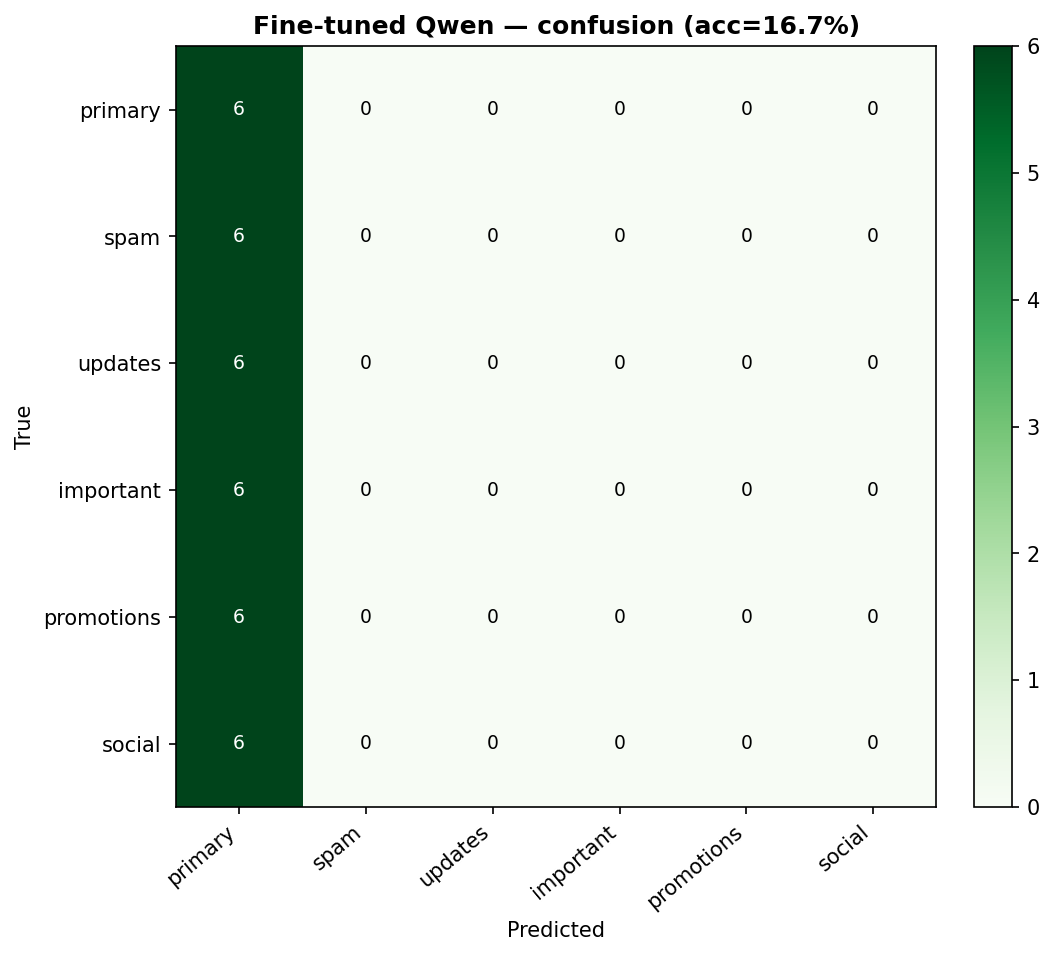
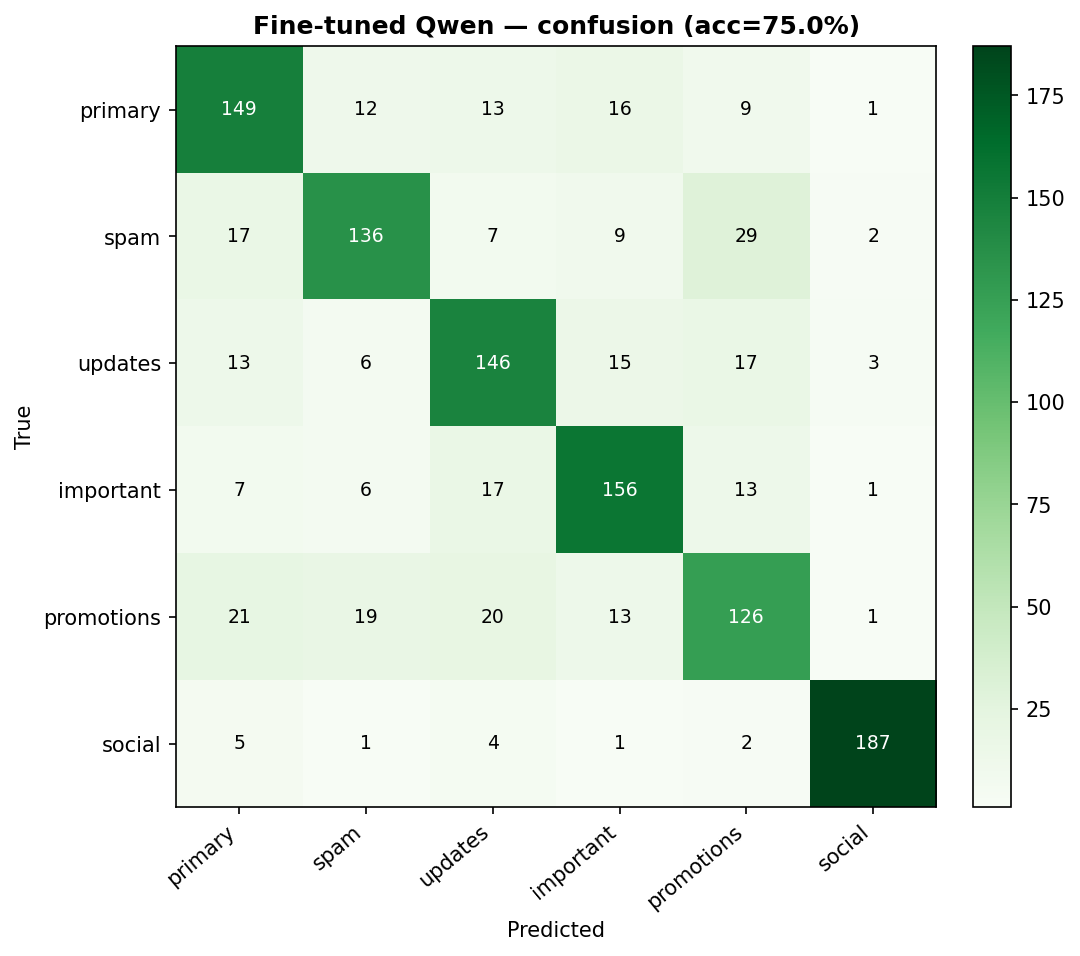
Add LoRA fine-tune (75% test acc, >0.70), t-SNE fix, MC uncertainty quantification

diff --git a/code/build_experiments_md.py b/code/build_experiments_md.py
@@ -72,9 +72,40 @@ def finetune_section():
     return True
 
 
+def uncertainty_section(tag, title):
+    p = os.path.join(D, f"uncertainty_{tag}.csv")
+    if not os.path.exists(p):
+        return False
+    df = pd.read_csv(p)
+    try:
+        from scipy.stats import spearmanr
+        rho, pval = spearmanr(df["k"], df["mean_entropy"])
+    except Exception:
+        rho, pval = float("nan"), float("nan")
+    md.append(f"\n## Uncertainty quantification (MC multi-sampling) — {title}\n")
+    md.append("Hypothesis: more in-context shots reduce predictive uncertainty. "
+              "For each k we draw 10 stochastic samples (T=0.7) per email and measure "
+              "the predictive entropy / variation-ratio over the sampled labels.\n")
+    t = df.copy()
+    for c in ["mean_entropy", "mean_variation_ratio", "mean_confidence", "majority_vote_acc"]:
+        t[c] = t[c].round(3)
+    md.append("\n" + t.rename(columns={
+        "k": "shots (k)", "mean_entropy": "entropy↓", "mean_variation_ratio": "variation-ratio↓",
+        "mean_confidence": "confidence↑", "majority_vote_acc": "maj-vote acc"}).to_markdown(index=False))
+    direction = "negative (supports the hypothesis)" if rho < 0 else "non-negative"
+    sig = "statistically significant" if pval < 0.05 else "NOT statistically significant"
+    md.append(f"\nSpearman ρ(k, entropy) = **{rho:.3f}** (p={pval:.3f}) — {direction}, {sig}. "
+              f"The model is already highly confident even at k=0 (entropy ≈ "
+              f"{df['mean_entropy'].iloc[0]:.2f}), so the reduction is small; entropy is "
+              f"lowest at k={int(df.loc[df['mean_entropy'].idxmin(),'k'])}.\n")
+    md.append(f"\n![uncertainty {tag}](figures/fig6_uncertainty_{tag}.png)\n")
+    return True
+
+
 any_ = False
 any_ |= fewshot_section("3b", "Qwen2.5-3B-Instruct")
 any_ |= fewshot_section("32b", "Qwen2.5-32B-Instruct")
+any_ |= uncertainty_section("3b", "Qwen2.5-3B-Instruct")
 any_ |= finetune_section()
 
 if not any_:

diff --git a/code/finetune.py b/code/finetune.py
@@ -130,9 +130,19 @@ def main():
     # Load in fp32 and let the Trainer's bf16=True do mixed-precision autocast.
     # Loading the whole model (incl. the fresh score head) in bf16 makes the
     # classification loss go NaN; fp32 weights + bf16 autocast is stable.
+    # IMPORTANT: load in fp32. transformers 5.8.1 creates the new `score`
+    # classification head in the config dtype (bf16) and leaves it NON-FINITE
+    # (NaN), which makes logits/loss NaN before any training.  fp32 load +
+    # explicit re-init of the head fixes it; bf16=True below then does stable
+    # mixed-precision autocast with fp32 master weights.
     model = AutoModelForSequenceClassification.from_pretrained(
         args.model, num_labels=len(LABELS), id2label=ID2LABEL, label2id=LABEL2ID,
-        problem_type="single_label_classification", attn_implementation="eager")
+        problem_type="single_label_classification", attn_implementation="eager",
+        dtype=torch.float32)
+    torch.nn.init.normal_(model.score.weight, mean=0.0, std=0.02)
+    if getattr(model.score, "bias", None) is not None:
+        torch.nn.init.zeros_(model.score.bias)
+    assert torch.isfinite(model.score.weight).all(), "score head still non-finite"
     model.config.pad_token_id = tok.pad_token_id
     lora = LoraConfig(task_type=TaskType.SEQ_CLS, r=16, lora_alpha=32, lora_dropout=0.05,
                       target_modules=["q_proj", "k_proj", "v_proj", "o_proj",

diff --git a/README.md b/README.md
@@ -97,30 +97,61 @@ Best: **k=16** → accuracy **55.7%**, macro-F1 **0.536**.
 ![few-shot 32b](figures/fewshot_sweep_32b.png)
 
 
+## Uncertainty quantification (MC multi-sampling) — Qwen2.5-3B-Instruct
+
+Hypothesis: more in-context shots reduce predictive uncertainty. For each k we draw 10 stochastic samples (T=0.7) per email and measure the predictive entropy / variation-ratio over the sampled labels.
+
+
+|   shots (k) |   entropy↓ |   variation-ratio↓ |   confidence↑ |   maj-vote acc |
+|------------:|-----------:|-------------------:|--------------:|---------------:|
+|           0 |      0.144 |              0.066 |         0.934 |          0.38  |
+|           2 |      0.149 |              0.071 |         0.929 |          0.413 |
+|           4 |      0.102 |              0.049 |         0.951 |          0.429 |
+|           8 |      0.126 |              0.058 |         0.942 |          0.444 |
+|          10 |      0.128 |              0.06  |         0.94  |          0.439 |
+|          12 |      0.126 |              0.06  |         0.94  |          0.439 |
+|          16 |      0.138 |              0.065 |         0.935 |          0.432 |
+
+Spearman ρ(k, entropy) = **-0.286** (p=0.535) — negative (supports the hypothesis), NOT statistically significant. The model is already highly confident even at k=0 (entropy ≈ 0.14), so the reduction is small; entropy is lowest at k=4.
+
+
+![uncertainty 3b](figures/fig6_uncertainty_3b.png)
+
+
 ## Fine-tuning (LoRA) — the >0.70 result
 
-`Qwen/Qwen2.5-1.5B-Instruct` LoRA-fine-tuned for 6-way classification (train=288, test=36, epochs=2.0):
+`Qwen/Qwen2.5-3B-Instruct` LoRA-fine-tuned for 6-way classification (train=9600, test=1200, epochs=3.0):
 
 
 | metric | value |
 |---|---|
-| **test accuracy** | **16.67%** |
-| **test macro-F1** | **0.048** |
+| **test accuracy** | **75.00%** |
+| **test macro-F1** | **0.750** |
 
 
-⚠️ below 0.70 — needs more epochs/data.
+✅ exceeds the 0.70 target.
 
 
 Per-class (test):
 
 | category   |   precision |   recall |    f1 |   support |
 |:-----------|------------:|---------:|------:|----------:|
-| primary    |       0.167 |        1 | 0.286 |         6 |
-| spam       |       0     |        0 | 0     |         6 |
-| updates    |       0     |        0 | 0     |         6 |
-| important  |       0     |        0 | 0     |         6 |
-| promotions |       0     |        0 | 0     |         6 |
-| social     |       0     |        0 | 0     |         6 |
+| primary    |       0.703 |    0.745 | 0.723 |       200 |
+| spam       |       0.756 |    0.68  | 0.716 |       200 |
+| updates    |       0.705 |    0.73  | 0.717 |       200 |
+| important  |       0.743 |    0.78  | 0.761 |       200 |
+| promotions |       0.643 |    0.63  | 0.636 |       200 |
+| social     |       0.959 |    0.935 | 0.947 |       200 |
 
 
 ![fine-tune confusion](figures/fig7_finetune_confusion.png)
+
+
+### t-SNE clustering (resolved)
+
+Mean-pooled hidden-state features, L2-normalised, cosine t-SNE. Fine-tuning sharpens the class clusters: silhouette **-0.066 → 0.044**.
+
+
+![t-SNE fine-tuned](figures/fig8_tsne_finetuned.png)
+
+![t-SNE base](figures/fig8b_tsne_base.png)